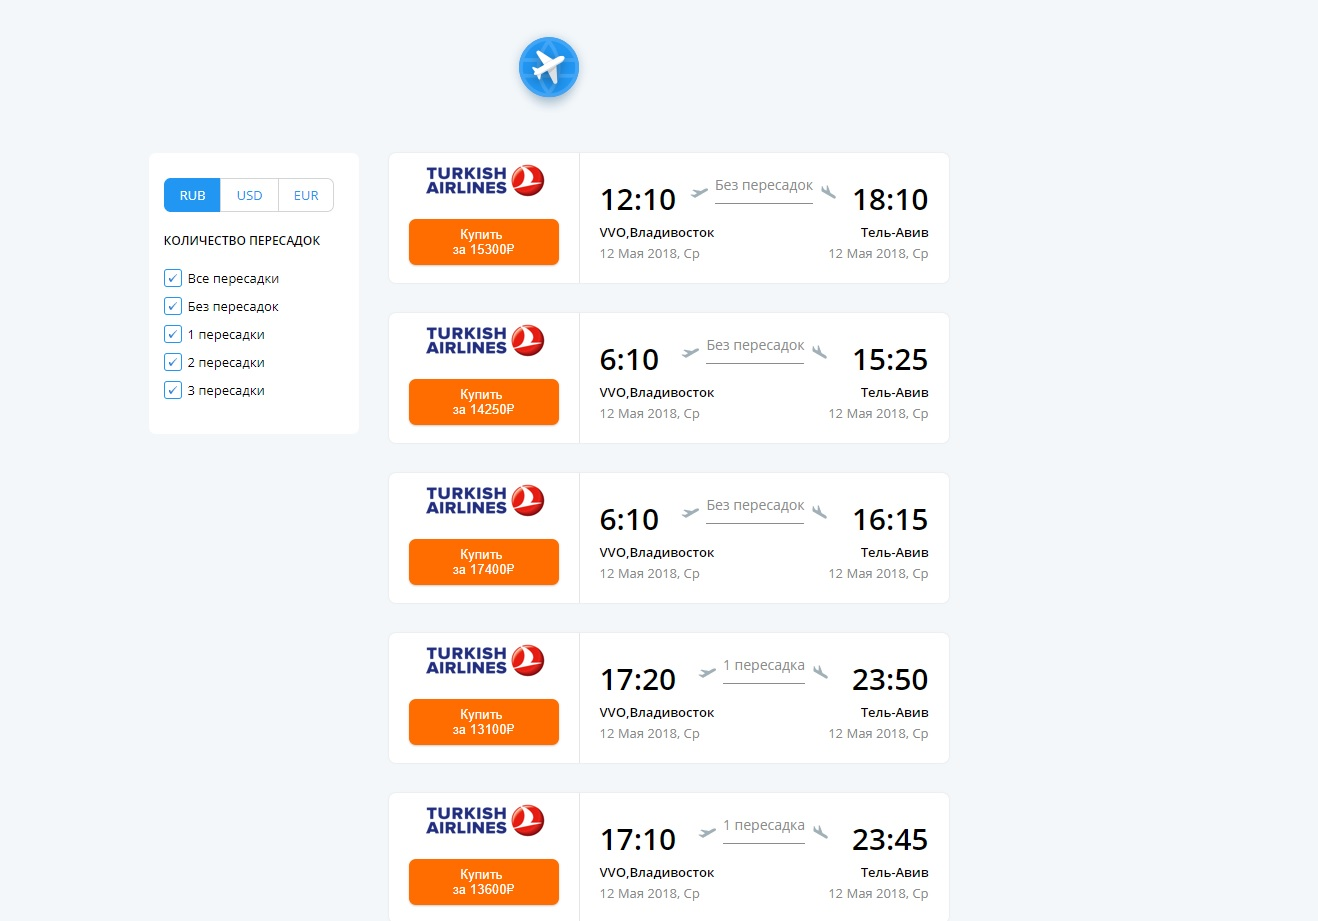
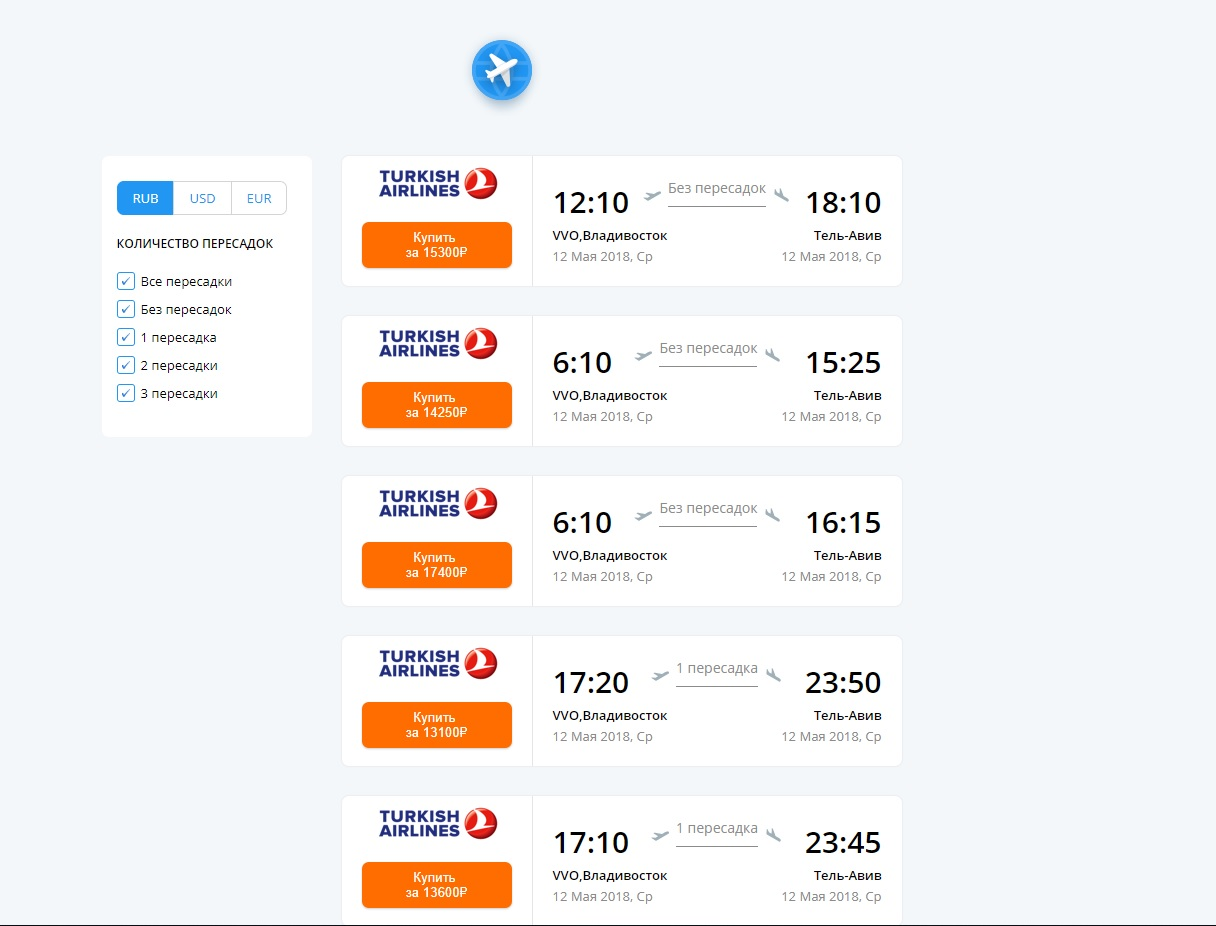
fix mistake

diff --git a/src/components/checkbox/checkbox.js b/src/components/checkbox/checkbox.js
@@ -1,21 +1,21 @@
 import React from "react";
 import s from "./checkbox.module.css";
 import classNames from "classnames";
-import {ALL} from '../../data';
+import { ALL } from "../../data";
 
 export function Checkbox({ onClick, onlyCurrent, stop, checked }) {
   return (
     <div className={s.checkbox}>
       <div onClick={() => onClick(stop)} className={s.choosen}>
-        <div
-          className={classNames({ [s.check]: checked }, s.handle)}
-        />
+        <div className={classNames({ [s.check]: checked }, s.handle)} />
         {stop === ALL ? (
           <div className={s.text}>Все пересадки</div>
         ) : stop === 0 ? (
           <div className={s.text}>Без пересадок</div>
         ) : (
-          <div className={s.text}>{stop} пересадки</div>
+          <div className={s.text}>
+            {stop === 1 ? `${stop} пересадка` : `${stop} пересадки`}
+          </div>
         )}
       </div>
       {onlyCurrent && (
